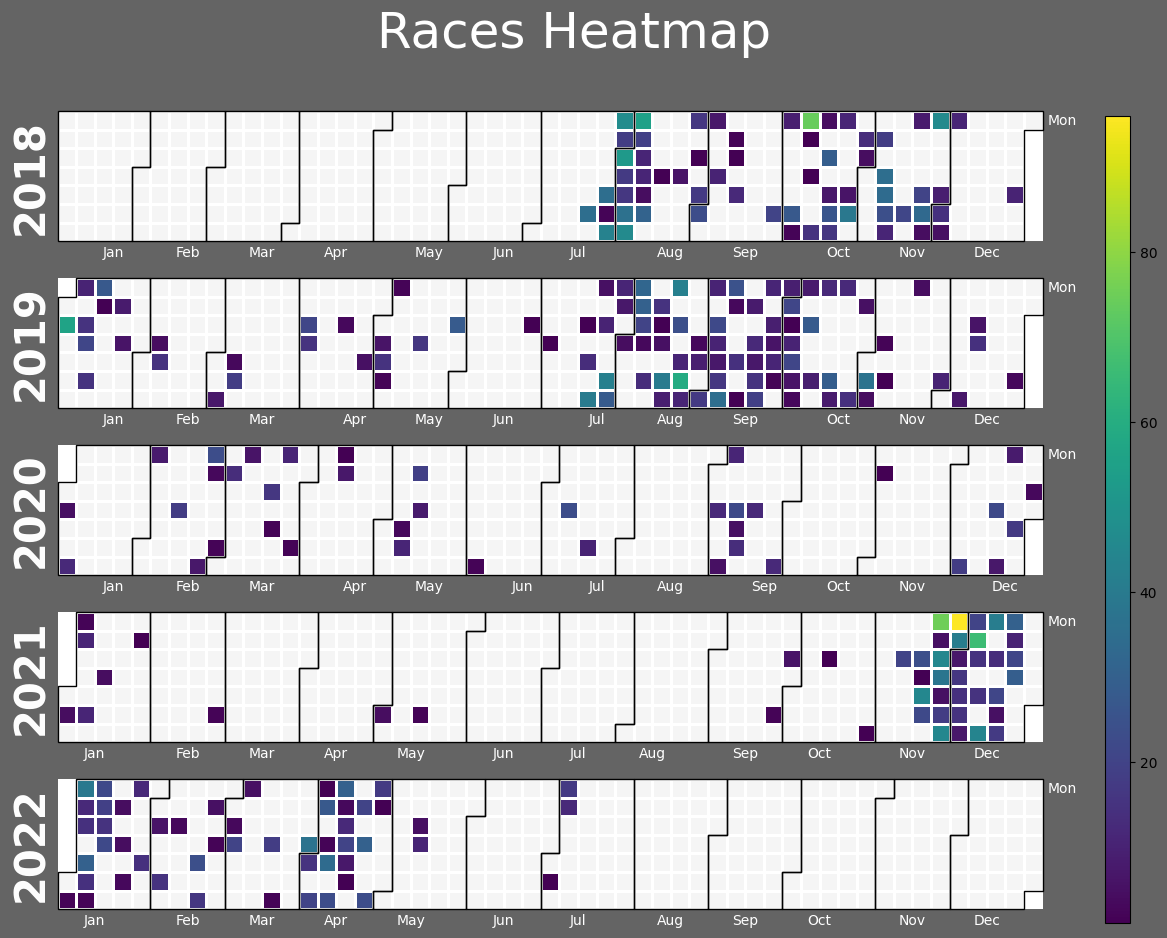
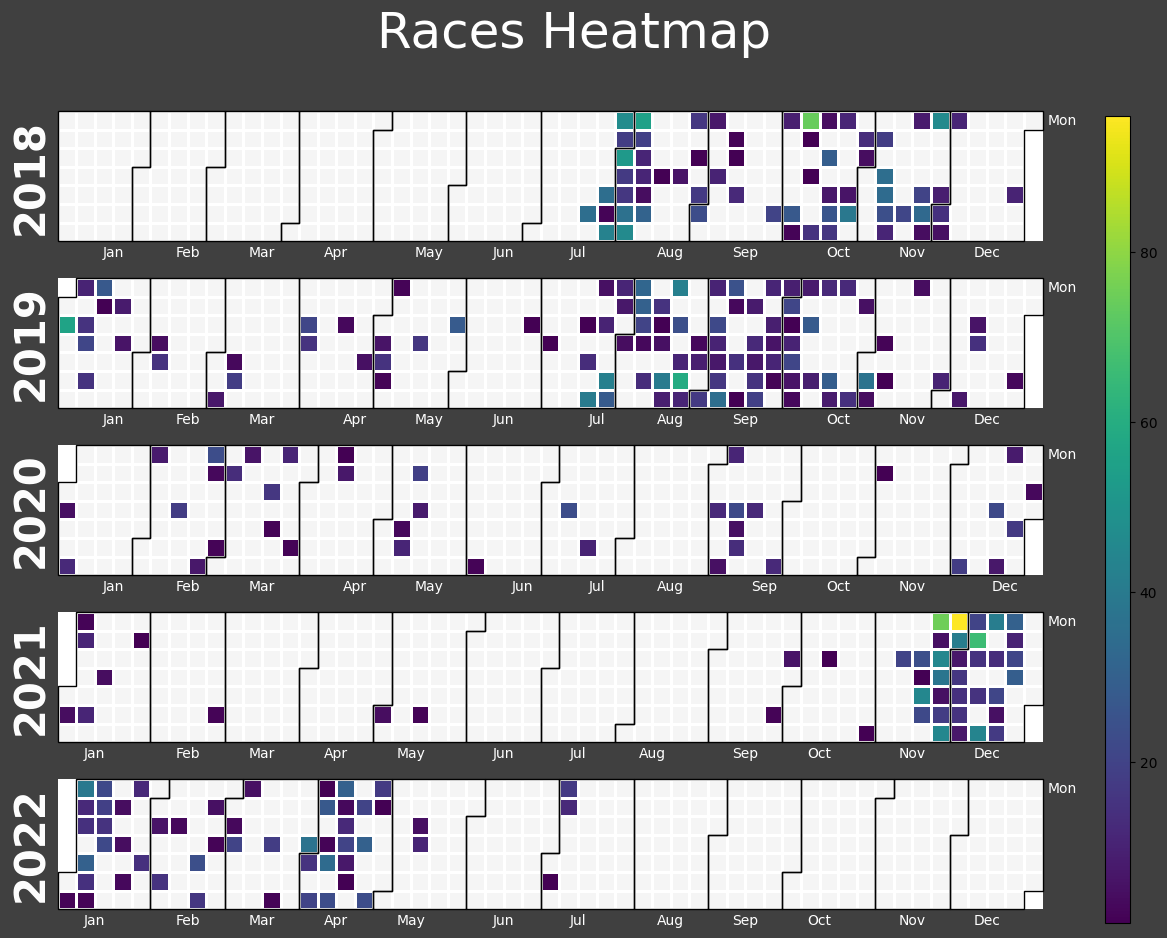
Heatmap html
Updated heatmap facecolor (python)
skeleton of heatmap section
updated placeholder about.html page

diff --git a/about.html b/about.html
@@ -14,35 +14,12 @@
 <body>
 
     <section id="start">
-        <img src="./images/thonkies.png" alt="self portrait">
+        <img src="./images/blanking.png" alt="self portrait">
 
-        <p>      .　　　　　　　　　　　　　.　　　ﾟ .　　　　　　　　　　　　　
-            . 　　　　　　　　　　　　　　　✦ 　　　　　,　　　　　　　
-            .                   　　　　　　　　　　　. .　　　　　　　　　　　　　
-            . 　　✦ 　   　　　,　　　　　　　　　  　　　　 　　
-            ,             .　　　　　 　　 　　　 .　 ˚　　　 　   　　
-            ,　　　　　　. .  　　   　　　　　 ✦ 　 . .　　　　.　　　  
-            . ˚　　　　　　　　ﾟ　　　　　. . 　　           , *　　 . 
-            .　　　　　　　　　　 ✦ ˚　　　　　　　　　　　　　　 
-            . 　　　　　　　　　　 　　　　　　　　　　.　　　　　　　　. 
-            ✦ 　   　　　,　　      　　 .　　　　　 　　 　　　. ˚　
-            　　 　   　　　　 　　　　　　　　　　　, .　　　 
-              　　    　　　　　 　　　　　. 
-            Traveled the entire galaxy trying to find out who asked
-                   .　　　　　　　　　　   ✦    　　　　　　　　　　　　　　     
-            *    .　　　　　　　　　　.             ✦    
-                                                                            
-                     .　　　　　　　　　　　　　.　　　ﾟ .　　　　　　　　　　　　　.
-        </p>
+        <p>WIP</p>
 
     </section>
 
-    <section>
-        <p id="elaborate">~,　　　　, *　　 . .　　　　　　　　　　 ✦ ˚　　 ✦ 　 . .　　　　.　　　 
-            ,　　　, *　　 . .　　　　　　　　　　 ✦ ˚　　　　 ✦ 　 . .　　　　.　　　 
-        </p>
-    </section>
-    
 
 </body>
 </html>

diff --git a/typeracer.html b/typeracer.html
@@ -26,8 +26,6 @@
     </section>
 
 
-    <!------------------------------------------------------------>
-
     <section>
         <h2>Introduction</h2>
 
@@ -44,38 +42,22 @@
 
     </section>
 
-    <!----------------------------------------------------------->
 
+    <section>
+        <h2>Calendar Heatmap</h2>
 
-    <section class="s2">
-        <h2>Section2</h2>
-        <p>Lorem ipsum dolor sit amet, consectetur adipiscing elit. 
-            Phasellus dolor metus, efficitur eu urna quis, tincidunt imperdiet nibh. 
-            Phasellus nec urna sagittis, pretium orci ut, lacinia est. 
-            Cras faucibus leo sit amet enim ultricies consectetur. 
-            Vivamus tincidunt lobortis est, at luctus elit rhoncus eget. 
-            Nullam in mauris at purus dictum dignissim. 
-            Donec id eleifend ante, tristique sollicitudin diam. 
-            Quisque scelerisque orci a orci convallis convallis. 
-            Mauris cursus vestibulum nibh id viverra.
-        </p>
-    </section>
+        <section class="calplot">
+            <p>long long long long long long long long long long long long long long long long long long long long long long long long long long long long long long long long long long long long long long long long long long long long long long long long words
+                <br><br>
+                short words
+                <br><br>
+                more words words words words words words words words 
+            </p>
+            <img src="./images/heatmap_cb.png">
+        </section>
 
-    <section class="s3">
-        <h2>Section3</h2>
-        <p>Lorem ipsum dolor sit amet, consectetur adipiscing elit. 
-            Phasellus dolor metus, efficitur eu urna quis, tincidunt imperdiet nibh. 
-            Phasellus nec urna sagittis, pretium orci ut, lacinia est. 
-            Cras faucibus leo sit amet enim ultricies consectetur. 
-            Vivamus tincidunt lobortis est, at luctus elit rhoncus eget. 
-            Nullam in mauris at purus dictum dignissim. 
-            Donec id eleifend ante, tristique sollicitudin diam. 
-            Quisque scelerisque orci a orci convallis convallis. 
-            Mauris cursus vestibulum nibh id viverra.
-        </p>
     </section>
     
-
 
 </body>
 </html>

diff --git a/CSS/typeracer.css b/CSS/typeracer.css
@@ -16,7 +16,7 @@ p {
     margin-left:5vw;
     margin-right:5vw;
     margin-top:5vh;
-    font-size:32px;
+    font-size:28px;
 }
 
 .intro {
@@ -24,7 +24,29 @@ p {
 }
 
 .intro > img {
+    object-fit: contain;
     width: 50vw;
     height: auto;
-    max-height:31vw;
+}
+
+.calplot {
+    display:flex;
+    flex-direction: column;
+    align-items: center;
+}
+
+.calplot > img {
+    object-fit: contain;
+    width: 40vw;
+    height: auto;
+    margin-top:8vh;
+    border: 2px solid white;
+    padding:24px;
+    margin-bottom:10vh;
+}
+
+.calplot > p {
+    text-align:center;
+    margin-left:15vw;
+    margin-right:15vw;
 }

diff --git a/CSS/about.css b/CSS/about.css
@@ -4,25 +4,17 @@ img {
 
 #start {
     display:flex;
-    flex-direction: row;
-    margin-top:10%;
-    gap: 10%;
+    align-items: center;
+    flex-direction: column;
 }
 
 img {
-    margin-left: 10%;
+    margin-top:20vh;
     width: 200px;
     height:200px;
 }
 
 #start > p {
-    display:block;
-    align-self:flex-end;
-    margin-right:5%;
-}
-
-#elaborate {
-    margin-top: 10vh;
-    margin-left: 10vh;
-    margin-right:10vh;
+    margin-top:10vh;
+    text-align: center;
 }

diff --git a/Python/typeracer_calendar_heatmap.py b/Python/typeracer_calendar_heatmap.py
@@ -65,9 +65,9 @@ def create_heatmap(dict_date_racecount):
     events = pd.Series(values, index=dti)
 
     # Customize heatmap.
-    grey = '#646464'
+    grey = '#404040'
     title_str = "Races Heatmap"
-    title_args = {"color":"white", "fontsize":36, "y":1.1}
+    title_args = {"color":"white", "fontsize":36, "y":1.05}
     yearlabel_args = {'color': 'white'}
     fig_args = {"facecolor":grey}
     colormap = 'viridis'
